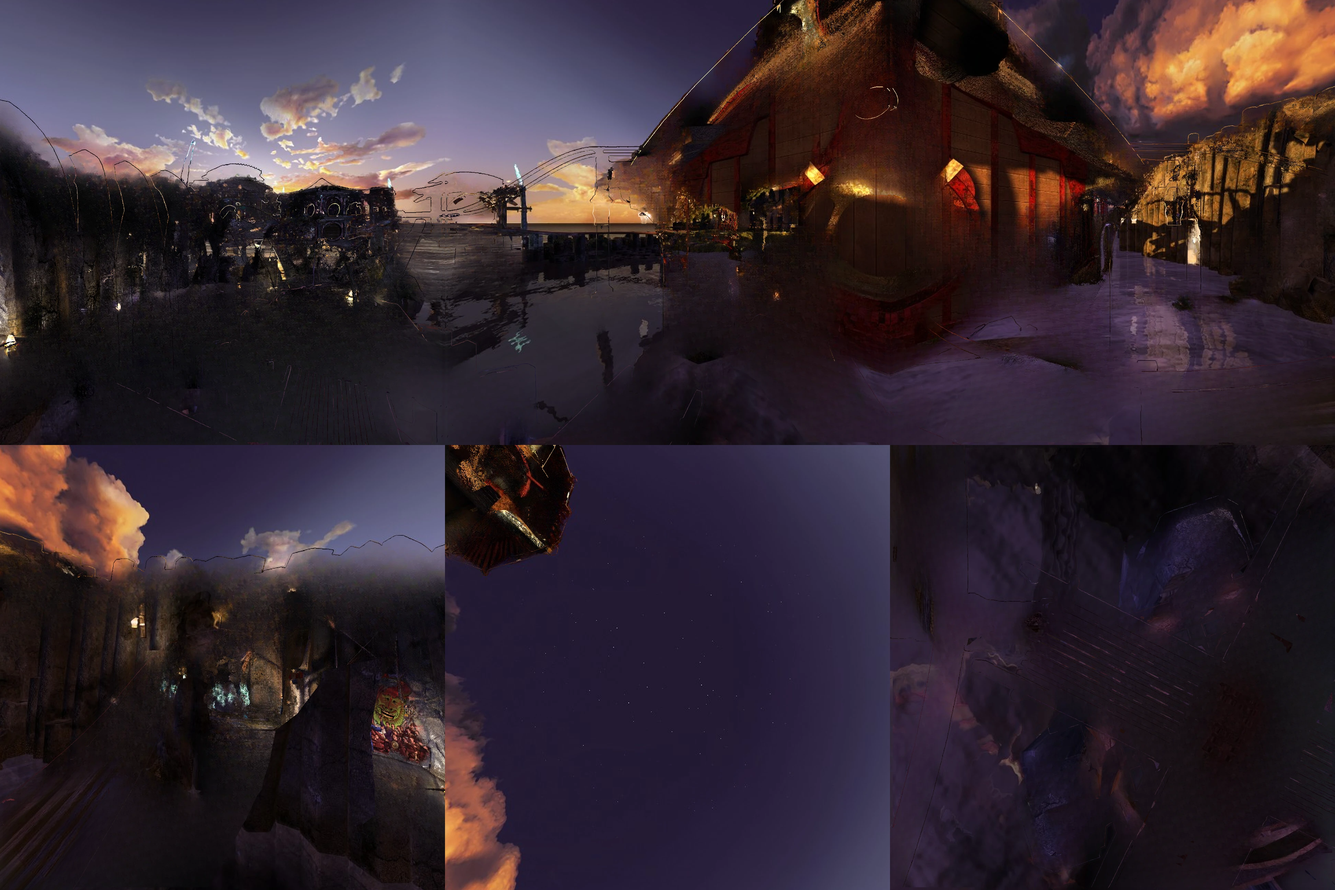
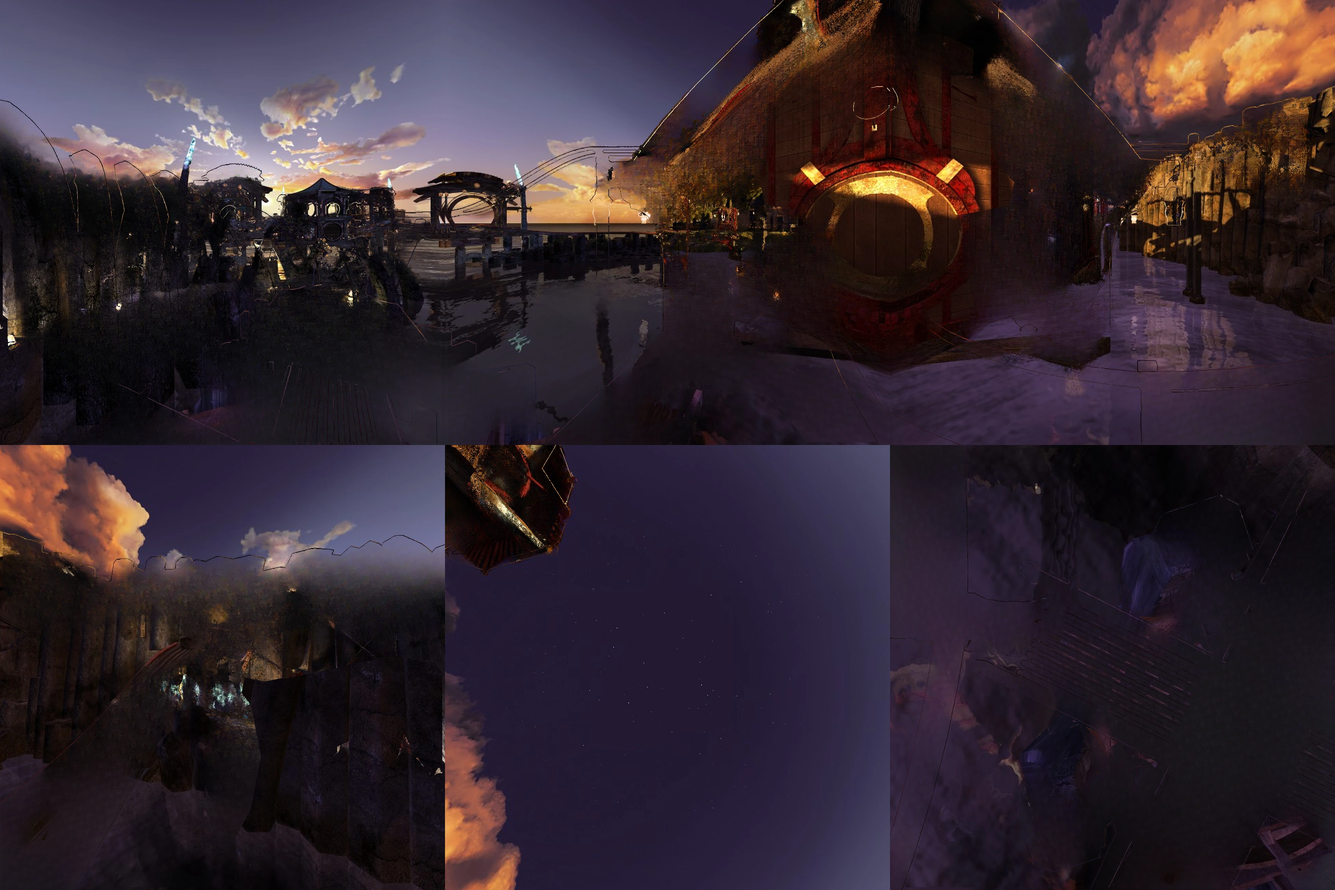
MASS 89 Layered: steps under 2.0 in inverse distance are not cut
The distant pavilion and ring stand 1.2-1.9 and 0.7-1.8 nearer than the sky
and slide 2-5 px against it at full head-tracking range. At the 0.8
threshold some of their edges were steps, so they were cut out of the
backdrop and painted over at sky depth: their windows became holes showing
dark paint, and the ring broke apart. With 2.0 the right-hand pavilion
stays whole in the backdrop. The left-hand one, at 3-5.7, is still cut.
Also h3_flf.py, a first-last-frame walk with MiniMax H3.

Claude-Session: https://claude.ai/code/session_01PGTZsQJKeQ77ippduWGzGV

diff --git a/cube/myst3/colmap/h3_flf.py b/cube/myst3/colmap/h3_flf.py
@@ -1,0 +1,96 @@
+#!/usr/bin/env python3
+r"""
+A walk between two pictures made by MiniMax H3 (first and last frame to video
+with audio) through a running ComfyUI.
+
+    python h3_flf.py FIRST.png LAST.png OUT_DIR [--size 1280x768] [--frames 124] [--steps 8]
+        [--turbo h3\minimax_h3_fl2v_turbo_8step_v1.0_comfyui_bf16.safetensors] [--turbo-strength 1]
+        [--seed 1] [--prompt ...] [--server $COMFY_SERVER] [--comfy-output C:\ComfyUI\output]
+
+As ComfyUI's MiniMax H3 image-to-video template: the pruned int8 fl2va model,
+the Qwen3-VL text encoder (type minimax), MiniMaxH3ImageToVideo with both
+frames, BasicGuider, res_multistep on the simple schedule, the 8-step turbo
+LoRA at 8 steps (--turbo-strength 0 and --steps 20 for the model alone).
+Width and height are multiples of 32; frames are 17k+5 (124 is 5.2 s at 24
+fps). Writes OUT_DIR/walk.mp4 (24 fps, with H3's sound). Standard library only.
+"""
+import argparse
+import json
+import os
+import shutil
+import time
+import urllib.request
+import uuid
+
+
+def api(server, path, data=None):
+    req = urllib.request.Request(server + path, data=json.dumps(data).encode() if data is not None else None,
+                                 headers={'Content-Type': 'application/json'})
+    with urllib.request.urlopen(req, timeout=120) as r:
+        return json.loads(r.read())
+
+
+def main():
+    ap = argparse.ArgumentParser(description=__doc__, formatter_class=argparse.RawDescriptionHelpFormatter)
+    ap.add_argument('first'); ap.add_argument('last'); ap.add_argument('out')
+    ap.add_argument('--size', default='1280x768'); ap.add_argument('--frames', type=int, default=124)
+    ap.add_argument('--steps', type=int, default=8); ap.add_argument('--seed', type=int, default=1)
+    ap.add_argument('--turbo', default='h3\\minimax_h3_fl2v_turbo_8step_v1.0_comfyui_bf16.safetensors')
+    ap.add_argument('--turbo-strength', type=float, default=1.0)
+    ap.add_argument('--prompt', default='A smooth, steady first-person camera walking slowly forward along the pier, the same place '
+                    'throughout, the scene getting nearer, no cuts, static lighting. Audio: soft footsteps on wood, gentle waves.')
+    ap.add_argument('--server', default=os.environ.get('COMFY_SERVER', 'http://127.0.0.1:8189'))
+    ap.add_argument('--comfy-input', default=r'C:\ComfyUI\input'); ap.add_argument('--comfy-output', default=r'C:\ComfyUI\output')
+    ap.add_argument('--timeout', type=int, default=5400)
+    a = ap.parse_args()
+    W, H = (int(x) for x in a.size.split('x'))
+    names = []
+    for f, n in ((a.first, 'h3_first.png'), (a.last, 'h3_last.png')):
+        shutil.copy(f, os.path.join(a.comfy_input, n)); names.append(n)
+    g = {
+        '1': {'class_type': 'UNETLoader', 'inputs': {'unet_name': 'minimax_h3_fl2va_pruned_int8_convrot.safetensors', 'weight_dtype': 'default'}},
+        '2': {'class_type': 'LoraLoaderModelOnly', 'inputs': {'model': ['1', 0], 'lora_name': a.turbo, 'strength_model': a.turbo_strength}},
+        '3': {'class_type': 'CLIPLoader', 'inputs': {'clip_name': 'qwen3vl_32b_minimax_h3_nvfp4_awq.safetensors', 'type': 'minimax'}},
+        '4': {'class_type': 'VAELoader', 'inputs': {'vae_name': 'minimax_h3_video_vae_fp16.safetensors'}},
+        '5': {'class_type': 'VAELoader', 'inputs': {'vae_name': 'minimax_h3_audio_vae_fp32.safetensors'}},
+        '6': {'class_type': 'LoadImage', 'inputs': {'image': names[0]}},
+        '7': {'class_type': 'LoadImage', 'inputs': {'image': names[1]}},
+        '8': {'class_type': 'MiniMaxH3ImageToVideo', 'inputs': {'clip': ['3', 0], 'vae': ['4', 0], 'prompt': a.prompt, 'width': W, 'height': H,
+                                                                'length': a.frames, 'first_frame': ['6', 0], 'last_frame': ['7', 0]}},
+        '9': {'class_type': 'BasicGuider', 'inputs': {'model': ['2', 0], 'conditioning': ['8', 0]}},
+        '10': {'class_type': 'RandomNoise', 'inputs': {'noise_seed': a.seed}},
+        '11': {'class_type': 'KSamplerSelect', 'inputs': {'sampler_name': 'res_multistep'}},
+        '12': {'class_type': 'BasicScheduler', 'inputs': {'model': ['2', 0], 'scheduler': 'simple', 'steps': a.steps, 'denoise': 1.0}},
+        '13': {'class_type': 'SamplerCustomAdvanced', 'inputs': {'noise': ['10', 0], 'guider': ['9', 0], 'sampler': ['11', 0],
+                                                                 'sigmas': ['12', 0], 'latent_image': ['8', 1]}},
+        '14': {'class_type': 'VAEDecode', 'inputs': {'samples': ['13', 0], 'vae': ['4', 0]}},
+        '15': {'class_type': 'VAEDecodeAudio', 'inputs': {'samples': ['13', 0], 'vae': ['5', 0]}},
+        '16': {'class_type': 'CreateVideo', 'inputs': {'images': ['14', 0], 'audio': ['15', 0], 'fps': 24.0}},
+        '17': {'class_type': 'SaveVideo', 'inputs': {'video': ['16', 0], 'filename_prefix': 'video/h3_flf', 'format': 'auto', 'codec': 'auto'}},
+    }
+    r = api(a.server, '/prompt', {'prompt': g, 'client_id': uuid.uuid4().hex})
+    if r.get('node_errors'):
+        raise SystemExit('node errors: ' + json.dumps(r['node_errors'])[:3000])
+    pid, t0 = r['prompt_id'], time.time()
+    while True:
+        if time.time() - t0 > a.timeout:
+            api(a.server, '/interrupt', {})
+            raise SystemExit(f'timed out after {a.timeout} s')
+        h = api(a.server, f'/history/{pid}')
+        if pid in h:
+            st = h[pid].get('status', {})
+            if st.get('status_str') == 'error':
+                raise SystemExit('ComfyUI error: ' + json.dumps(st.get('messages', []))[-3000:])
+            if st.get('completed'):
+                break
+        time.sleep(10)
+    os.makedirs(a.out, exist_ok=True)
+    for key, items in h[pid]['outputs'].get('17', {}).items():
+        for it in items if isinstance(items, list) else []:
+            if isinstance(it, dict) and 'filename' in it:
+                shutil.copy(os.path.join(a.comfy_output, it.get('subfolder', ''), it['filename']), os.path.join(a.out, 'walk.mp4'))
+    print(f'{a.out}: {W}x{H}, {a.frames} frames, {a.steps} steps, done in {time.time() - t0:.0f} s', flush=True)
+
+
+if __name__ == '__main__':
+    main()
